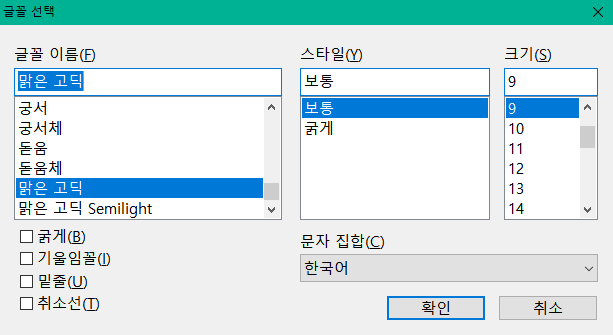
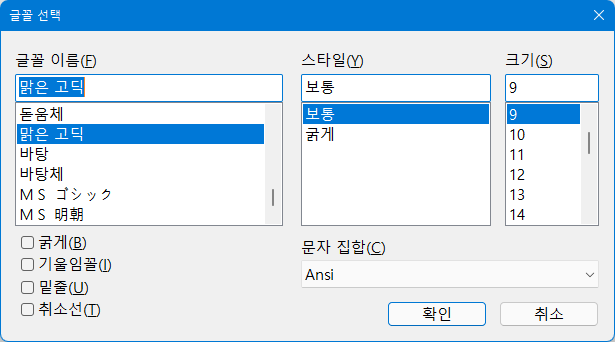
Help contents update
Write Japanese and English help message.
Write other language help placeholder.
Update license year credits.

Changed region(s): [[0.0, 0.0, 1.0, 1.0], [0.0, 0.1194, 0.4649, 0.9254]]

diff --git a/help/ja-jp/contents/02.html b/help/ja-jp/contents/02.html
@@ -1,6 +1,6 @@
 <!DOCTYPE HTML>
 <!--
-noMeiryoUI (C) 2005,2012-2020 Tatsuhiko Shoji
+noMeiryoUI (C) 2005,2012-2022 Tatsuhiko Shoji
 The sources for noMeiryoUI are distributed under the MIT open source license
 -->
 <html>
@@ -29,7 +29,7 @@ The sources for noMeiryoUI are distributed under the MIT open source license
 </p>
 
 <p>
-<img src="noMeiryoUI.PNG" width="615" height="444" alt="Meiryo UIも大っきらい!!画面"><br>
+<img src="noMeiryoUI.PNG" width="617" height="451" alt="Meiryo UIも大っきらい!!画面"><br>
 </p>
 </div>
 <hr>
@@ -46,7 +46,7 @@ The sources for noMeiryoUI are distributed under the MIT open source license
 <p>
 　「すべてのフォント」と書かれた横には選択されているフォントが表示されます。<br>
 　フォント名の横の「選択」ボタンを押下すると、<a href="#FontSel">フォント選択ダイアログ</a>からフォントを選択できます。<br>
-、「一括設定」ボタンを押下すると選択したフォント・フォントサイズ・書式を画面の各部分に設定してプログラムを終了します。<br>
+　「一括設定して終了」ボタンを押下すると選択したフォント・フォントサイズ・書式を画面の各部分に設定してプログラムを終了します。<br>
 　「適用」ボタンを押下すると選択したフォント・フォントサイズ・書式を画面の各部分に設定します。<br>
 </p>
 
@@ -58,9 +58,9 @@ The sources for noMeiryoUI are distributed under the MIT open source license
 　フォントを変更する際は変更したい項目のフォント名の横にある「選択」ボタンを押下してください。<br>
 　<a href="#FontSel">フォント選択ダイアログ</a>が表示されるので、フォント・フォントサイズ・書式を好みに合わせて設定してください。<br>
 <br>
-　設定が終わったら「設定」ボタンを押下すると選択したフォントを画面の各部分に設定してプログラムを終了します。<br>
+　設定が終わったら「設定して終了」ボタンを押下すると選択したフォントを画面の各部分に設定してプログラムを終了します。<br>
 　「適用」ボタンを押下すると選択したフォントを画面の各部分に設定します。<br>
-　「終了」ボタンを押下するとプログラムを終了します。<br>
+　「設定せず終了」ボタンを押下するとプログラムを終了します。<br>
 </p>
 </div>
 
@@ -71,7 +71,7 @@ The sources for noMeiryoUI are distributed under the MIT open source license
 <h2><a id="FontSel">2.3 フォントの選択</a></h2>
 <p>
 　フォント名の横にある選択ボタンを押下すると下記のフォント選択ダイアログが表示されます。<br>
-<img src="FontSel.PNG" width="613" height="335" alt="フォント選択ダイアログ"><br>
+<img src="FontSel.PNG" width="615" height="337" alt="フォント選択ダイアログ"><br>
 </p>
 <p>
 　フォント選択ダイアログでは以下の指定を行うことができます。<br>
@@ -143,6 +143,10 @@ The sources for noMeiryoUI are distributed under the MIT open source license
 			<li>Windows 10<br>
 			すべてのフォント以外の設定をWindows 10の初期状態に戻します。<br>
 			</li>
+			<li>Windows 11<br>
+			すべてのフォント以外の設定をWindows 11の初期状態に戻します。<br>
+			</li>
+			<!-- 10と変わりませんが。 -->
 		</ul>
 	</li>
 	<li>ツール(T)

diff --git a/help/ko-kr/contents/01.html b/help/ko-kr/contents/01.html
@@ -1,6 +1,6 @@
 <!DOCTYPE HTML>
 <!--
-noMeiryoUI (C) 2005,2012-2020 Tatsuhiko Shoji,deVbug,창윤
+noMeiryoUI (C) 2005,2012-2022 Tatsuhiko Shoji,deVbug,창윤
 The sources for noMeiryoUI are distributed under the MIT open source license
 -->
 <html>
@@ -10,7 +10,7 @@ The sources for noMeiryoUI are distributed under the MIT open source license
 <meta http-equiv="content-style-type" content="text/css">
 <link rel="stylesheet" href="noMeiryoUI.css">
 <title>1. 시작하기에 앞서</title>
-<link rev=made href="mailto:rxk16664@nifty.ne.jp">
+<link rev=made href="mailto:tatsu_syo@nifty.com">
 <link rel="Index" href="Frame.noMeiryoUI.html">
 <link rel="First" href="01.html">
 <link rel="Last" href="04.html">
@@ -35,7 +35,7 @@ The sources for noMeiryoUI are distributed under the MIT open source license
 　데스크탑에 표시된 윈도우의 각 부분의 글꼴을 설정하기 때문에 데스크탑 응용프로그램입니다.<br>
 </p>
 <p>
-　Windows 2000부터 7까지도 동작은 합니다만, 저 운영체제들은 화면 각 부분의 글꼴을 자체적으로 설정할 수 있기 때문에 의미가 없습니다.<br>
+　Windows Vista부터 7까지도 동작은 합니다만, 저 운영체제들은 화면 각 부분의 글꼴을 자체적으로 설정할 수 있기 때문에 의미가 없습니다.<br>
 </p>
 
 </div>
@@ -78,9 +78,6 @@ The sources for noMeiryoUI are distributed under the MIT open source license
 </tr>
 <tr>
 <td>default.chm</td><td>기본 도움말 파일(영어)입니다.</td>
-</tr>
-<tr>
-<td>src.zip</td><td>본 프로그램의 소스코드 압축파일 입니다.<br>보통은 사용하지 않습니다만, 이 소프트웨어의 동작을 조사하고 싶은 경우 혹은 프로그램을 개량하고 싶은 경우 사용합니다.<br>(역자: 최신 버전은 <a href="https://github.com/Tatsu-syo/noMeiryoUI">github</a>에 공개되어 있습니다.)</td>
 </tr>
 </tbody>
 </table>

diff --git a/help/ko-kr/contents/02.html b/help/ko-kr/contents/02.html
@@ -1,6 +1,6 @@
 <!DOCTYPE HTML>
 <!--
-noMeiryoUI (C) 2005,2012-2020 Tatsuhiko Shoji,deVbug,창윤
+noMeiryoUI (C) 2005,2012-2022 Tatsuhiko Shoji,deVbug,창윤
 The sources for noMeiryoUI are distributed under the MIT open source license
 -->
 <html>
@@ -10,7 +10,7 @@ The sources for noMeiryoUI are distributed under the MIT open source license
 <meta http-equiv="content-style-type" content="text/css">
 <link rel="stylesheet" href="noMeiryoUI.css">
 <title>2. 사용 방법</title>
-<link rev="made" href="mailto:rxk16664@nifty.ne.jp">
+<link rev="made" href="mailto:tatsu_syo@nifty.com">
 <link rel="Index" href="Frame.noMeiryoUI.html">
 <link rel="First" href="01.html">
 <link rel="Last" href="04.html">
@@ -29,7 +29,7 @@ The sources for noMeiryoUI are distributed under the MIT open source license
 </p>
 
 <p>
-<img src="noMeiryoUI.png" width="615" height="444" alt="No!! Meiryo UI 화면"><br>
+<img src="noMeiryoUI.png" width="617" height="451" alt="No!! Meiryo UI 화면"><br>
 </p>
 </div>
 <hr>
@@ -62,7 +62,7 @@ The sources for noMeiryoUI are distributed under the MIT open source license
 <h2><a id="FontSel">2.4 글꼴 선택</a></h2>
 <p>
 　글꼴 이름 옆에 있는 [선택...] 버튼을 누르면 아래와 같은 글꼴 선택 대화상자가 표시됩니다.<br>
-<img src="FontSel.PNG" width="613" height="335" alt="글꼴 선택 대화상자"><br>
+<img src="FontSel.PNG" width="615" height="342" alt="글꼴 선택 대화상자"><br>
 </p>
 <p>
 　글꼴 선택 대화상자에서는 다음과 같은 값을 설정할 수 있습니다.<br>

diff --git a/help/zh-cn/contents/02.html b/help/zh-cn/contents/02.html
@@ -1,6 +1,6 @@
 <!DOCTYPE HTML>
 <!--
-noMeiryoUI (C) 2005,2012-2020 Tatsuhiko Shoji,Gekka Tachibana,kingofotaku,icebeam030
+noMeiryoUI (C) 2005,2012-2022 Tatsuhiko Shoji,Gekka Tachibana,kingofotaku,icebeam030
 The sources for noMeiryoUI are distributed under the MIT open source license
 -->
 <html lang="zh-cn">
@@ -10,7 +10,7 @@ The sources for noMeiryoUI are distributed under the MIT open source license
 <meta http-equiv="content-style-type" content="text/css">
 <link rel="stylesheet" href="noMeiryoUI.css">
 <title>2.本软件的使用方法</title>
-<link rev="made" href="mailto:rxk16664@nifty.ne.jp">
+<link rev="made" href="mailto:tatsu_syo@nifty.com">
 <link rel="Index" href="Frame.noMeiryoUI.html">
 <link rel="First" href="01.html">
 <link rel="Last" href="04.html">
@@ -29,7 +29,7 @@ The sources for noMeiryoUI are distributed under the MIT open source license
 </p>
 
 <p>
-<img src="noMeiryoUI.PNG" width="617" height="447" alt="No!! Meiryo UI的主界面"><br>
+<img src="noMeiryoUI.PNG" width="617" height="451" alt="No!! Meiryo UI的主界面"><br>
 </p>
 </div>
 <hr>
@@ -73,7 +73,7 @@ The sources for noMeiryoUI are distributed under the MIT open source license
 <p>
 　点击字体名右侧的“选择”后，软件将会弹出如下字体选择对话框：<br>
 <p>
-<img src="FontSel.PNG" width="615" height="337" alt="字体选择对话框"><br>
+<img src="FontSel.PNG" width="615" height="342" alt="字体选择对话框"><br>
 </p>
 <p>
 　通过字体选择对话框能够进行下列设定：<br>

diff --git a/help/ja-jp/contents/01.html b/help/ja-jp/contents/01.html
@@ -1,6 +1,6 @@
 <!DOCTYPE HTML>
 <!--
-noMeiryoUI (C) 2005,2012-2020 Tatsuhiko Shoji
+noMeiryoUI (C) 2005,2012-2022 Tatsuhiko Shoji
 The sources for noMeiryoUI are distributed under the MIT open source license
 -->
 <html>
@@ -35,7 +35,7 @@ The sources for noMeiryoUI are distributed under the MIT open source license
 　デスクトップに表示されたウインドウの各部分のフォントを設定するのでデスクトップアプリです。<br>
 </p>
 <p>
-　Windows 2000から7でも動作しますが、これらのOSでは画面の各部分のフォントを設定することが当たり前にできますので意味がありません。<br>
+　Windows Vista,7でも動作しますが、これらのOSでは画面の各部分のフォントを設定することが当たり前にできますので意味がありません。<br>
 </p>
 
 </div>
@@ -87,9 +87,6 @@ The sources for noMeiryoUI are distributed under the MIT open source license
 </tr>
 <tr>
 <td>default.chm</td><td>日本語および上記以外の言語で動作させるときのヘルプファイルです。</td>
-</tr>
-<tr>
-<td>src.zip</td><td>本ソフトのソースファイルです。<br>通常は使用しませんが、本ソフトの動作を調べたい場合やプログラムを改良したい場合に使用します。</td>
 </tr>
 </tbody>
 </table>

diff --git a/help/pt-br/contents/02.html b/help/pt-br/contents/02.html
@@ -1,6 +1,6 @@
 <!DOCTYPE HTML>
 <!--
-noMeiryoUI (C) 2005,2012-2020 Tatsuhiko Shoji,Claudio Mantovani Vieira
+noMeiryoUI (C) 2005,2012-2022 Tatsuhiko Shoji,Claudio Mantovani Vieira
 The sources for noMeiryoUI are distributed under the MIT open source license
 -->
 <html>
@@ -10,7 +10,7 @@ The sources for noMeiryoUI are distributed under the MIT open source license
 <meta http-equiv="content-style-type" content="text/css">
 <link rel="stylesheet" href="noMeiryoUI.css">
 <title>How to use</title>
-<link rev="made" href="mailto:rxk16664@nifty.ne.jp">
+<link rev="made" href="mailto:tatsu_syo@nifty.com">
 <link rel="Index" href="Frame.noMeiryoUI.html">
 <link rel="First" href="01.html">
 <link rel="Last" href="04.html">
@@ -30,7 +30,7 @@ Este
 <p>
 E, 
 abaixo, a janela é exibida.<br>
-<IMG src="noMeiryoUI.PNG" width=615 height=444><br>
+<IMG src="noMeiryoUI.PNG" width=617 height=451><br>
 Pressione 
 o botão&nbsp;Selec. ... 
 (Selecionar)&nbsp;para definir o elemento da interface do usuário.<br>
@@ -38,7 +38,7 @@ o botão&nbsp;Selec. ...
 
 <p>
 Quando você pressionar o botão Selecionar..., esta janela será exibida.<br>
-<IMG src="FontSel.PNG" width=613 height=335><br>
+<IMG src="FontSel.PNG" width=615 height=342><br>
 </p>
 <p>
    Escolha&nbsp;o nome, o tamanho e&nbsp;o 

diff --git a/help/zh-cn/contents/04.html b/help/zh-cn/contents/04.html
@@ -1,6 +1,6 @@
 <!DOCTYPE HTML>
 <!--
-noMeiryoUI (C) 2005,2012-2020 Tatsuhiko Shoji,Gekka Tachibana,kingofotaku,icebeam030
+noMeiryoUI (C) 2005,2012-2022 Tatsuhiko Shoji,Gekka Tachibana,kingofotaku,icebeam030
 The sources for noMeiryoUI are distributed under the MIT open source license
 -->
 <html lang="zh-cn">
@@ -10,7 +10,7 @@ The sources for noMeiryoUI are distributed under the MIT open source license
 <meta http-equiv="content-style-type" content="text/css">
 <link rel="stylesheet" href="noMeiryoUI.css">
 <title>4.许可与作者</title>
-<link rev=made href="mailto:rxk16664@nifty.ne.jp">
+<link rev=made href="mailto:tatsu_syo@nifty.com">
 <link rel="Index" href="Frame.noMeiryoUI.html">
 <link rel="First" href="01.html">
 <link rel="Last" href="04.html">
@@ -41,7 +41,7 @@ The sources for noMeiryoUI are distributed under the MIT open source license
 <h2>作者</h2>
 <address>
 庄子 達彦(Tatsu)<br>
-E-mail Address <a href="mailto:rxk16664@nifty.ne.jp">rxk16664@nifty.ne.jp</a><br>
+E-mail Address <a href="mailto:tatsu_syo@nifty.com">tatsu_syo@nifty.com</a><br>
 My Web page <a href="http://tatsu.life.coocan.jp/index.html">http://tatsu.life.coocan.jp/index.html</a><br>
 </address>
 </div>

diff --git a/help/ko-kr/contents/04.html b/help/ko-kr/contents/04.html
@@ -1,6 +1,6 @@
 <!DOCTYPE HTML>
 <!--
-noMeiryoUI (C) 2005,2012-2020 Tatsuhiko Shoji,deVbug,창윤
+noMeiryoUI (C) 2005,2012-2022 Tatsuhiko Shoji,deVbug,창윤
 The sources for noMeiryoUI are distributed under the MIT open source license
 -->
 <html>
@@ -10,7 +10,7 @@ The sources for noMeiryoUI are distributed under the MIT open source license
 <meta http-equiv="content-style-type" content="text/css">
 <link rel="stylesheet" href="noMeiryoUI.css">
 <title>4. 라이센스와 제작자에 대해</title>
-<link rev=made href="mailto:rxk16664@nifty.ne.jp">
+<link rev=made href="mailto:tatsu_syo@nifty.com">
 <link rel="Index" href="Frame.noMeiryoUI.html">
 <link rel="First" href="01.html">
 <link rel="Last" href="04.html">
@@ -41,7 +41,7 @@ The sources for noMeiryoUI are distributed under the MIT open source license
 <h2>제작자</h2>
 <address>
 庄子 達彦(타츠히코 쇼지; Tatsu)<br>
-E-mail Address <a href="mailto:rxk16664@nifty.ne.jp">rxk16664@nifty.ne.jp</a><br>
+E-mail Address <a href="mailto:tatsu_syo@nifty.com">tatsu_syo@nifty.com</a><br>
 My Web page <a href="http://tatsu.life.coocan.jp/index.html">http://tatsu.life.coocan.jp/index.html</a><br>
 </address>
 </div>

diff --git a/help/en-us/contents/02.html b/help/en-us/contents/02.html
@@ -1,6 +1,6 @@
 <!DOCTYPE HTML>
 <!--
-noMeiryoUI (C) 2005,2012-2020 Tatsuhiko Shoji
+noMeiryoUI (C) 2005,2012-2022 Tatsuhiko Shoji
 The sources for noMeiryoUI are distributed under the MIT open source license
 -->
 <html>
@@ -28,7 +28,7 @@ This icon(<img src="icon.png" width="32" height="32">).<br>
 
 <p>
 And, below window is displayed.<br>
-<img src="noMeiryoUI.PNG" width="615" height="444"><br>
+<img src="noMeiryoUI.PNG" width="617" height="451"><br>
 Push select... button to set user interface element.<br>
 </p>
 
@@ -39,14 +39,14 @@ Bottom group, you can set each user interface element font individually.<br>
 
 <p>
 When you push select... button, this dialog is displayed.<br>
-<img src="FontSel.PNG" width="613" height="335"><br>
+<img src="FontSel.PNG" width="615" height="342"><br>
 </p>
 <p>
 Choice font face, font size, font style, charset, and push OK button.
 </p>
 <p>
-Push set button , you can set user interface font and exit.<br>
-Push apply button , you can set user interface font.<br>
+Push set and exit button, you can set user interface font and exit.<br>
+Push apply button, you can set user interface font.<br>
 </p>
 
 </div>

diff --git a/help/pt-br/contents/04.html b/help/pt-br/contents/04.html
@@ -1,6 +1,6 @@
 <!DOCTYPE HTML>
 <!--
-noMeiryoUI (C) 2005,2012-2020 Tatsuhiko Shoji,Claudio Mantovani Vieira
+noMeiryoUI (C) 2005,2012-2022 Tatsuhiko Shoji,Claudio Mantovani Vieira
 The sources for noMeiryoUI are distributed under the MIT open source license
 -->
 <html>
@@ -10,7 +10,7 @@ The sources for noMeiryoUI are distributed under the MIT open source license
 <meta http-equiv="content-style-type" content="text/css">
 <link rel="stylesheet" href="noMeiryoUI.css">
 <title>License</title>
-<link rev=made href="mailto:rxk16664@nifty.ne.jp">
+<link rev=made href="mailto:tatsu_syo@nifty.com">
 <link rel="Index" href="Frame.noMeiryoUI.html">
 <link rel="First" href="01.html">
 <link rel="Last" href="04.html">
@@ -34,7 +34,7 @@ arquivos de orígem são distribuídos sob a licença&nbsp;de código aberto&nbs
 <address>
 Tatsuhiko Syoji(Tatsu)<br>
 Endereço 
-de E-mail <A href="mailto:rxk16664@nifty.ne.jp">rxk16664@nifty.ne.jp</a><br>
+de E-mail <A href="mailto:tatsu_syo@nifty.com">tatsu_syo@nifty.com</a><br>
 Minha Página Web <a href="http://tatsu.life.coocan.jp/index.html">http://tatsu.life.coocan.jp/index.html</a><br>
 </address>
 </div>
